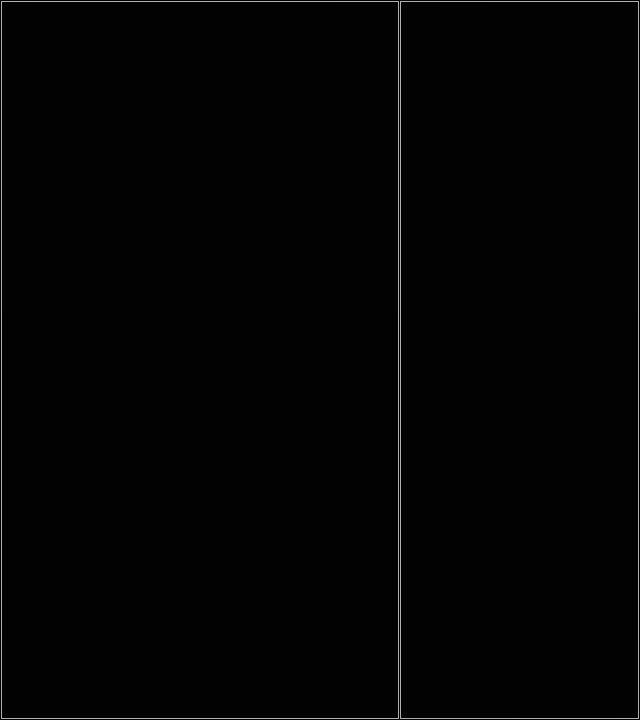
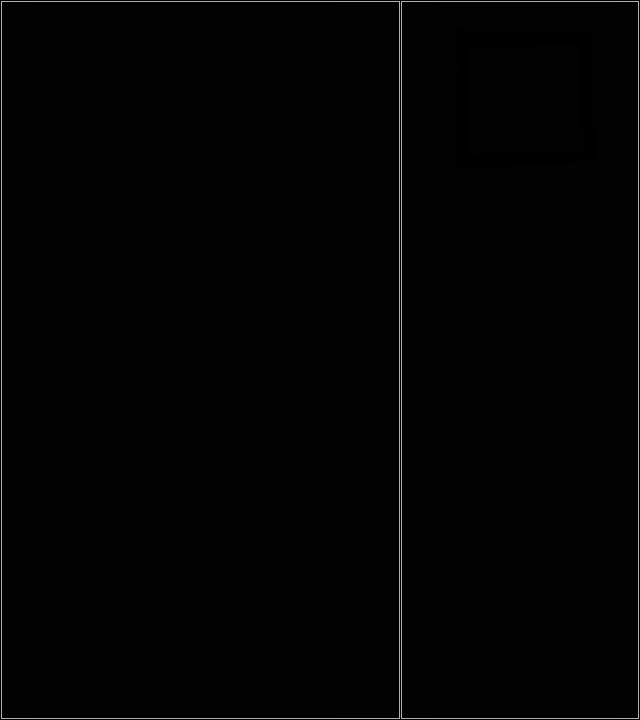
Updated user image and assets

diff --git a/menu.c b/menu.c
@@ -22,7 +22,7 @@ int main(int argc, char *argv[]) {
     GtkWidget *image = gtk_image_new_from_file("/home/anon/.comfy/menubg.png");
     gtk_fixed_put(GTK_FIXED(fixed), image, 0, 0);
     GtkWidget *image2 = gtk_image_new_from_file("assets/user.png");
-    gtk_fixed_put(GTK_FIXED(fixed), image2, 455, 20);
+    gtk_fixed_put(GTK_FIXED(fixed), image2, 456, 54);
 
     // Create a vertical box to hold the buttons
     GtkWidget *vbox = gtk_box_new(GTK_ORIENTATION_VERTICAL, 10);
